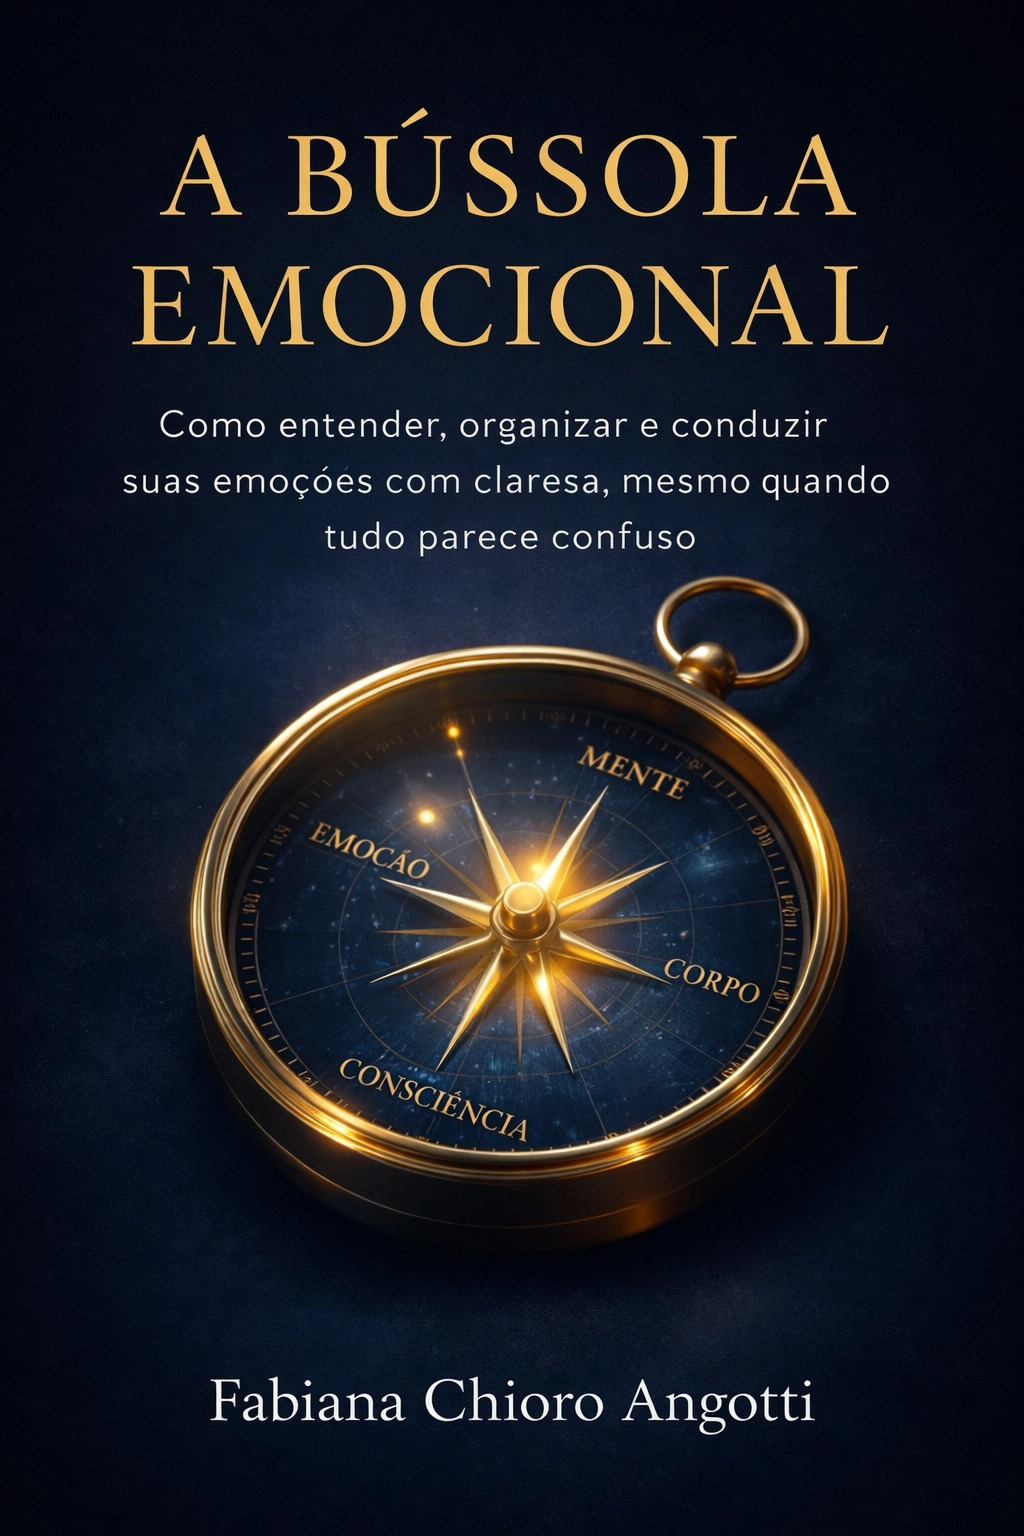
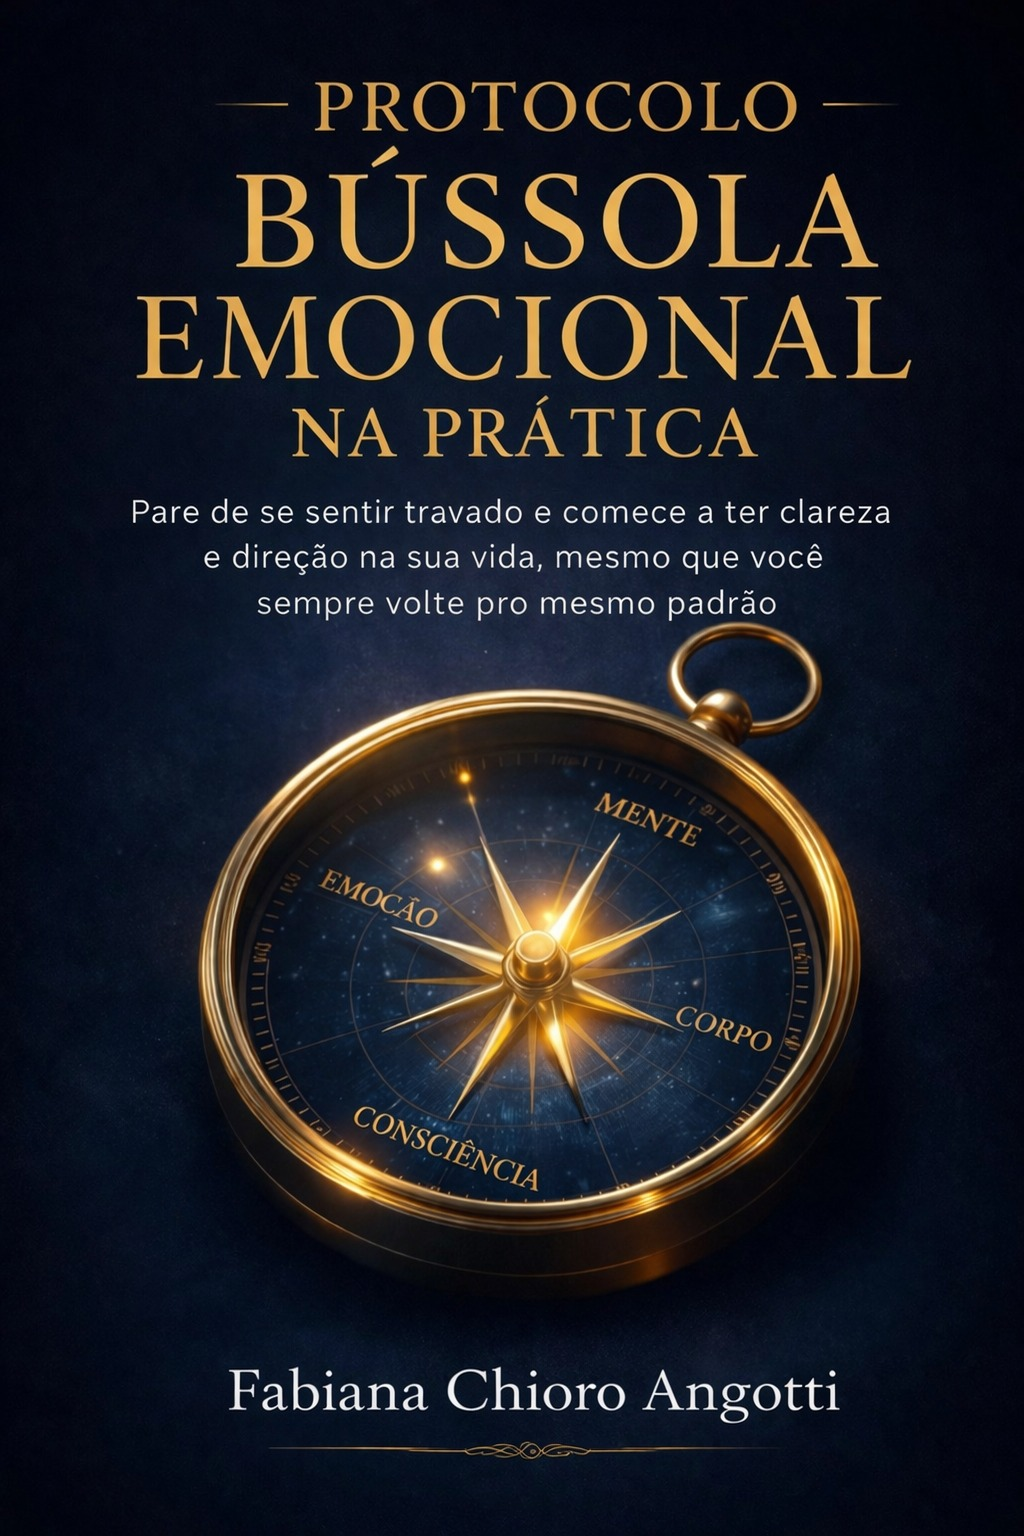
fix: text and image changes

Changed region(s): [[0.125, 0.0312, 0.9062, 0.8438], [0.1875, 0.875, 0.8125, 0.9688], [0.6875, 0.8438, 0.7188, 0.875]]

diff --git a/index.html b/index.html
@@ -3,7 +3,7 @@
   <head>
     <meta charset="UTF-8" />
     <meta name="viewport" content="width=device-width, initial-scale=1.0" />
-    <title>Bússola Emocional na Prática</title>
+    <title>Protocolo Bússola Emocional na Prática</title>
 
     <!-- Single CSS entry point -->
     <link rel="stylesheet" href="styles/main.css" />
@@ -27,8 +27,8 @@
           <span class="hero__eyebrow">E-book</span>
 
           <h1 class="hero__headline">
-            Veja agora como entender suas emoções, identificar padrões e reorganizar suas respostas internas usando a
-            <strong>Bússola Emocional</strong>
+            Veja agora como entender suas emoções, identificar padrões e reorganizar suas respostas internas usando o
+            <strong>Protocolo Bússola Emocional na Prática</strong>
             , mesmo que tudo pareça confuso hoje
           </h1>
 
@@ -120,7 +120,7 @@
     <section id="solution">
       <div class="solution__container">
         <div class="solution__text reveal">
-          <h2 class="solution__title">A Bússola Emocional na Prática</h2>
+          <h2 class="solution__title">O Protocolo Bússola Emocional na Prática</h2>
           <p class="solution__subtitle">Um guia para te ajudar a entender, organizar e dar direção ao que você sente</p>
         </div>
 
@@ -155,10 +155,10 @@
         <ul class="deliverables__list">
           <li class="deliverables__item reveal">
             <div class="deliverables__item-image">
-              <img src="assets/imgs/compass.jpeg" alt="Guia da Bússola Emocional" />
+              <img src="assets/imgs/compass.jpeg" alt="Protocolo Bússola Emocional na Prática" />
             </div>
             <div class="deliverables__text">
-              <strong class="deliverables__name">Guia da Bússola Emocional</strong>
+              <strong class="deliverables__name">Guia do Protocolo Bússola Emocional na Prática</strong>
               <span class="deliverables__desc">
                 Explica como identificar emoções, padrões e sinais do corpo de forma clara e aplicável no dia a dia
               </span>
@@ -181,7 +181,7 @@
             </div>
             <div class="deliverables__text">
               <strong class="deliverables__name">Aplicação Prática da Bússola</strong>
-              <span class="deliverables__desc">Como usar nomear, localizar, significar e observar para ganhar clareza emocional</span>
+              <span class="deliverables__desc">Como usar, nomear, localizar, significar e observar para ganhar clareza emocional</span>
             </div>
           </li>
 
@@ -191,7 +191,7 @@
             </div>
             <div class="deliverables__text">
               <strong class="deliverables__name">Exemplo Real Explicado</strong>
-              <span class="deliverables__desc">Demonstração prática de como uma emoção pode ser compreendida e reorganizada</span>
+              <span class="deliverables__desc">Demonstração prática de como uma emoção, pode ser compreendida e reorganizada</span>
             </div>
           </li>
 
@@ -201,7 +201,7 @@
             </div>
             <div class="deliverables__text">
               <strong class="deliverables__name">Checklist de Clareza Emocional</strong>
-              <span class="deliverables__desc">Passo a passo simples para aplicar sempre que se sentir confuso emocionalmente</span>
+              <span class="deliverables__desc">Passo a passo simples, para aplicar sempre que se sentir confuso emocionalmente</span>
             </div>
           </li>
         </ul>
@@ -242,7 +242,7 @@
                 <line x1="6.5" y1="10" x2="12" y2="14" stroke="currentColor" stroke-width="1.4" stroke-linecap="round" />
               </svg>
             </span>
-            <span class="bonus__text">Mapa visual da Bússola Emocional</span>
+            <span class="bonus__text">Mapa visual do Protocolo Bússola Emocional na Prática</span>
           </li>
 
           <li class="bonus__item reveal">
@@ -306,13 +306,13 @@
           </p>
 
           <p class="author__block reveal">
-            Ao longo dessa construção, tornou-se possível identificar uma estrutura que organiza essas experiências internas em um caminho mais claro
+            Ao longo dessa construção, tornou-se possível identificar uma estrutura que organiza essas experiências internas, em um caminho mais claro
             e compreensível.
           </p>
 
           <p class="author__block reveal">
-            A Bússola Emocional surge desse processo — como uma forma de transformar algo que antes parecia confuso em uma sequência observável,
-            aplicável e com direção.
+            O Protocolo Bússola Emocional na Prática surge desse processo — como uma forma de transformar algo que antes parecia confuso, em uma
+            sequência observável, aplicável e com direção.
           </p>
 
           <p class="author__block author__block--close reveal">
@@ -330,7 +330,7 @@
 
         <ul class="value__list reveal">
           <li class="value__row">
-            <span class="value__label">Guia da Bússola Emocional</span>
+            <span class="value__label">Guia do Protocolo Bússola Emocional na Prática</span>
             <span class="value__price value__price--struck">R$97</span>
           </li>
           <li class="value__row">
